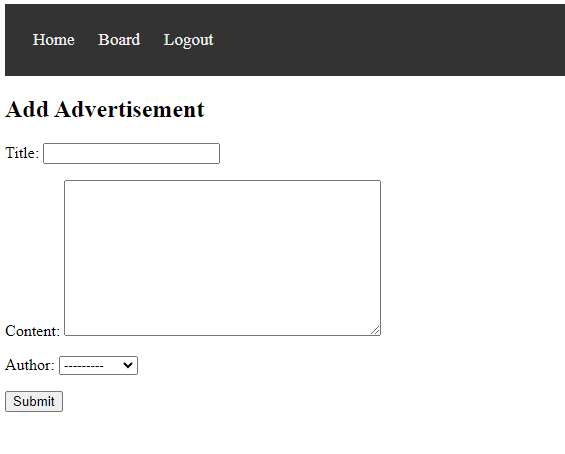
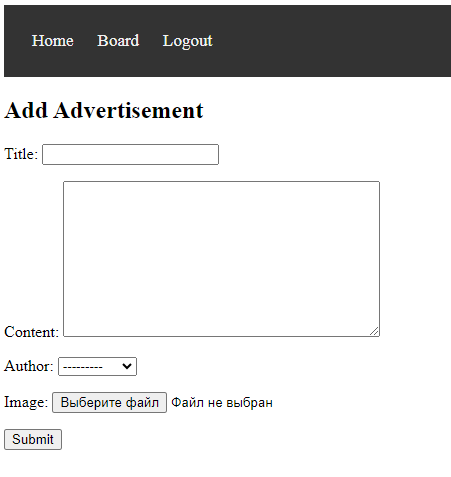
Реализовать функционал: Добавление изображений к объявлениям

diff --git a/urban_project/board/templates/board/advertisement_detail.html b/urban_project/board/templates/board/advertisement_detail.html
@@ -2,6 +2,12 @@
 
 {% block content %}
 <h1>{{ advertisement.title }}</h1>
+{% if advertisement.image %}
+    <img src="{{ advertisement.image.url }}" alt="{{ advertisement.title }}">
+{% else %}
+    <p>Изображение отсутствует</p>
+{% endif %}
+
 <p>{{ advertisement.content }}</p>
 <a href="{% url 'board:edit_advertisement' pk=advertisement.pk %}">Редактировать</a>
 <a href="{% url 'board:delete_advertisement' ad_id=advertisement.pk %}">Удалить</a>

diff --git a/urban_project/board/templates/board/add_advertisement.html b/urban_project/board/templates/board/add_advertisement.html
@@ -2,7 +2,7 @@
 
 {% block content %}
   <h2>Add Advertisement</h2>
-  <form method="post">
+  <form method="POST" enctype="multipart/form-data">
     {% csrf_token %}
     {{ form.as_p }}
     {% if advertisement.pk %}

diff --git a/urban_project/board/views.py b/urban_project/board/views.py
@@ -60,13 +60,14 @@ def advertisement_detail(request, pk):
 @login_required
 def add_advertisement(request):
     '''
-        Функция создаёт новое объявление. Так же проверяет, зарегистрирован ли пользователь, подающий объявление
-        :param request:
-        :return:
-        '''
+    Функция создаёт новое объявление. Так же проверяет, зарегистрирован ли пользователь, подающий объявление
+    :param request:
+    :return:
+    '''
     if request.method == "POST":
-        form = AdvertisementForm(request.POST)
+        form = UploadFileForm(request.POST, request.FILES)
         if form.is_valid():
+            handle_uploaded_file(request.FILES['file'])
             advertisement = form.save(commit=False)
             advertisement.author = request.user
             advertisement.save()
@@ -74,6 +75,12 @@ def add_advertisement(request):
     else:
         form = AdvertisementForm()
     return render(request, 'board/add_advertisement.html', {'form': form})
+
+def handle_uploaded_file(f):
+    with open("media/" + f.name, "wb+") as destination:
+        for chunk in f.chunks():
+            destination.write(chunk)
+
 
 
 class AdvertisementUpdateView(UpdateView):

diff --git a/urban_project/urban_project/urls.py b/urban_project/urban_project/urls.py
@@ -17,6 +17,9 @@ Including another URLconf
 from django.contrib import admin
 from django.urls import path, include
 from board import views as board_views
+from django.conf import settings
+from django.conf.urls.static import static
+
 
 urlpatterns = [
     path('admin/', admin.site.urls),
@@ -26,3 +29,6 @@ urlpatterns = [
     path('', board_views.home, name='home'),
     path('signup/', board_views.signup, name='signup'),
 ]
+
+if settings.DEBUG:
+    urlpatterns += static(settings.MEDIA_URL, document_root=settings.MEDIA_ROOT)

diff --git a/urban_project/board/migrations/0003_alter_advertisement_image.py b/urban_project/board/migrations/0003_alter_advertisement_image.py
@@ -1,0 +1,18 @@
+# Generated by Django 5.0.3 on 2025-01-10 10:53
+
+from django.db import migrations, models
+
+
+class Migration(migrations.Migration):
+
+    dependencies = [
+        ('board', '0002_advertisement_image'),
+    ]
+
+    operations = [
+        migrations.AlterField(
+            model_name='advertisement',
+            name='image',
+            field=models.ImageField(blank=True, default='default.jpg', null=True, upload_to='media/'),
+        ),
+    ]

diff --git a/urban_project/board/migrations/0002_advertisement_image.py b/urban_project/board/migrations/0002_advertisement_image.py
@@ -1,0 +1,18 @@
+# Generated by Django 5.0.3 on 2025-01-10 08:53
+
+from django.db import migrations, models
+
+
+class Migration(migrations.Migration):
+
+    dependencies = [
+        ('board', '0001_initial'),
+    ]
+
+    operations = [
+        migrations.AddField(
+            model_name='advertisement',
+            name='image',
+            field=models.ImageField(blank=True, default='default.jpg', null=True, upload_to='images2/'),
+        ),
+    ]

diff --git a/urban_project/urban_project/settings.py b/urban_project/urban_project/settings.py
@@ -11,6 +11,7 @@ https://docs.djangoproject.com/en/5.0/ref/settings/
 """
 
 from pathlib import Path
+import os
 
 # Build paths inside the project like this: BASE_DIR / 'subdir'.
 BASE_DIR = Path(__file__).resolve().parent.parent
@@ -124,3 +125,6 @@ STATIC_URL = 'static/'
 DEFAULT_AUTO_FIELD = 'django.db.models.BigAutoField'
 
 LOGIN_REDIRECT_URL = '/board'
+
+MEDIA_URL = '/media/'
+MEDIA_ROOT = os.path.join(BASE_DIR, 'media')

diff --git a/urban_project/board/models.py b/urban_project/board/models.py
@@ -6,6 +6,7 @@ class Advertisement(models.Model):
     content = models.TextField()
     author = models.ForeignKey(User, on_delete=models.CASCADE)
     created_at = models.DateTimeField(auto_now_add=True)
+    image = models.ImageField(upload_to='media/', blank=True, null=True, default='default.jpg')
 
     def __str__(self):
         return self.title

diff --git a/urban_project/board/forms.py b/urban_project/board/forms.py
@@ -7,7 +7,7 @@ from django.contrib.auth.models import User
 class AdvertisementForm(forms.ModelForm):
     class Meta:
         model = Advertisement
-        fields = ['title', 'content', 'author']
+        fields = ['title', 'content', 'author', 'image']
 
 class SignUpForm(UserCreationForm):
     class Meta:

diff --git a/readme.md b/readme.md
@@ -55,7 +55,7 @@
 ![advertisement_detail.png](urban_project%2FImages%2Fadvertisement_detail.png)
 
 ### _def add_advertisement(request):_
-Форма для сохранения нового оъявления
+Форма для сохранения нового оъявления с изображением
 - Принимает форму объявления
 - Проверяет его валидность
 - если валидность подтверждена
